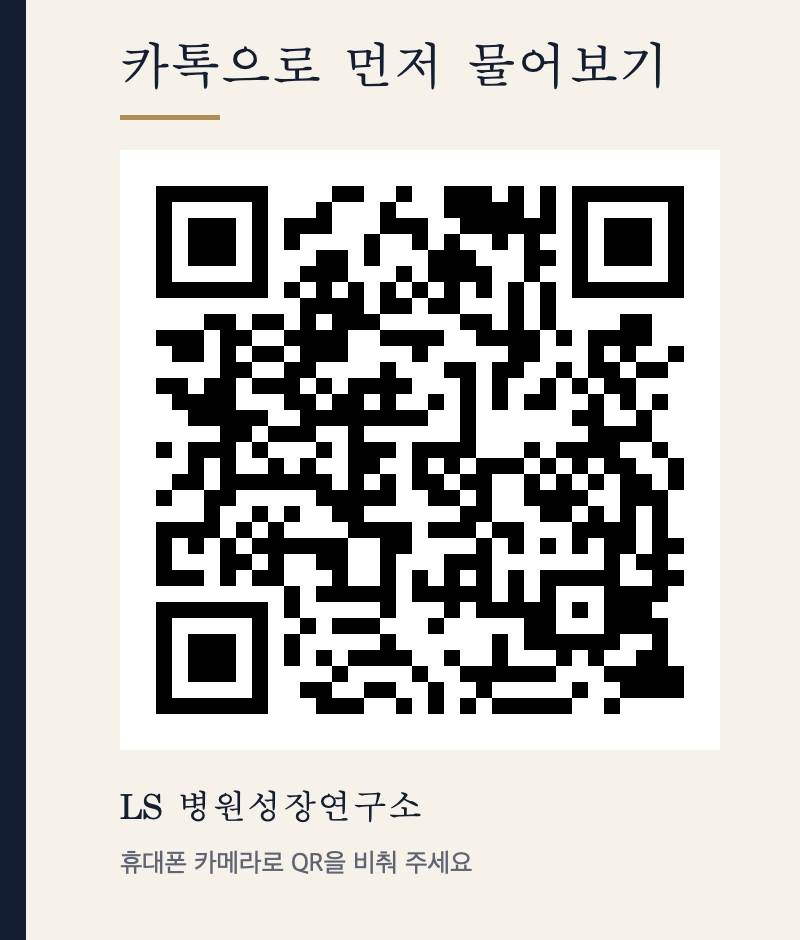
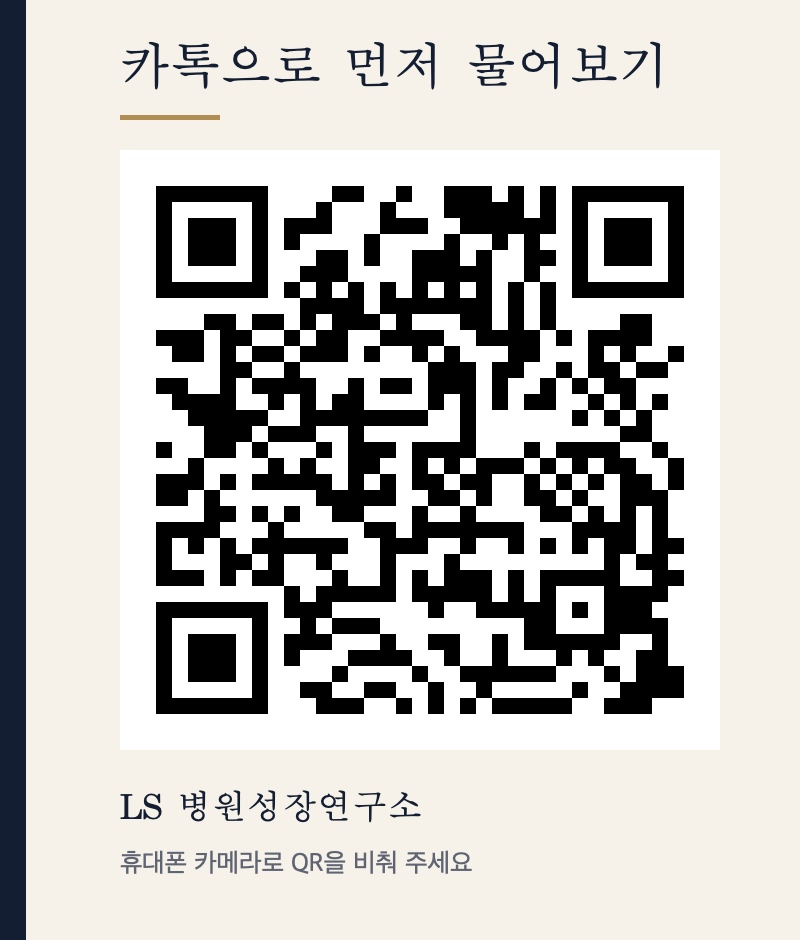
카톡 상담 링크·QR 교체

diff --git a/index.html b/index.html
@@ -356,7 +356,7 @@ footer a{text-decoration:none;border-bottom:1px solid var(--rule)}
       </div>
       <div class="ctas">
         <a class="btn solid" href="https://docs.google.com/forms/d/e/1FAIpQLScgscJzu-_umpK5T391qhe0d7Zhl0t5ld2U17WTYjD9tdr5nw/viewform" rel="noopener">무료 진단 신청</a>
-        <a class="btn line" href="https://m.site.naver.com/2ltfX" rel="noopener">💬 카톡으로 먼저 물어보기</a>
+        <a class="btn line" href="https://m.site.naver.com/2luYY" rel="noopener">💬 카톡으로 먼저 물어보기</a>
         <img class="qr" src="img/kakao-qr.jpg" width="120" height="141" alt="카톡 상담 QR | LS 병원성장연구소" loading="lazy">
       </div>
     </div>
@@ -371,7 +371,7 @@ footer a{text-decoration:none;border-bottom:1px solid var(--rule)}
         <dt>상호</dt><dd>레몬마케팅인사이트</dd>
         <dt>대표자</dt><dd><span class="soon">표기 예정</span></dd>
         <dt>사업자등록번호</dt><dd><span class="soon">등록 후 표기</span></dd>
-        <dt>문의</dt><dd><a href="https://m.site.naver.com/2ltfX" rel="noopener">카톡으로 먼저 물어보기</a></dd>
+        <dt>문의</dt><dd><a href="https://m.site.naver.com/2luYY" rel="noopener">카톡으로 먼저 물어보기</a></dd>
         <dt>블로그</dt><dd><a href="https://blog.naver.com/lsgrowth6000">blog.naver.com/lsgrowth6000</a></dd>
       </dl>
     </div>

diff --git a/columns/01.html b/columns/01.html
@@ -178,7 +178,7 @@
       </div>
       <div class="ctas">
         <a class="btn solid" href="https://docs.google.com/forms/d/e/1FAIpQLScgscJzu-_umpK5T391qhe0d7Zhl0t5ld2U17WTYjD9tdr5nw/viewform" rel="noopener">무료 진단 신청</a>
-        <a class="btn line" href="https://m.site.naver.com/2ltfX" rel="noopener">💬 카톡으로 먼저 물어보기</a>
+        <a class="btn line" href="https://m.site.naver.com/2luYY" rel="noopener">💬 카톡으로 먼저 물어보기</a>
         <img class="qr" src="../img/kakao-qr.jpg" width="120" height="141" alt="카톡 상담 QR | LS 병원성장연구소" loading="lazy">
       </div>
     </div>

diff --git a/columns/02.html b/columns/02.html
@@ -198,7 +198,7 @@
       </div>
       <div class="ctas">
         <a class="btn solid" href="https://docs.google.com/forms/d/e/1FAIpQLScgscJzu-_umpK5T391qhe0d7Zhl0t5ld2U17WTYjD9tdr5nw/viewform" rel="noopener">무료 진단 신청</a>
-        <a class="btn line" href="https://m.site.naver.com/2ltfX" rel="noopener">💬 카톡으로 먼저 물어보기</a>
+        <a class="btn line" href="https://m.site.naver.com/2luYY" rel="noopener">💬 카톡으로 먼저 물어보기</a>
         <img class="qr" src="../img/kakao-qr.jpg" width="120" height="141" alt="카톡 상담 QR | LS 병원성장연구소" loading="lazy">
       </div>
     </div>

diff --git a/columns/03.html b/columns/03.html
@@ -188,7 +188,7 @@
       </div>
       <div class="ctas">
         <a class="btn solid" href="https://docs.google.com/forms/d/e/1FAIpQLScgscJzu-_umpK5T391qhe0d7Zhl0t5ld2U17WTYjD9tdr5nw/viewform" rel="noopener">무료 진단 신청</a>
-        <a class="btn line" href="https://m.site.naver.com/2ltfX" rel="noopener">💬 카톡으로 먼저 물어보기</a>
+        <a class="btn line" href="https://m.site.naver.com/2luYY" rel="noopener">💬 카톡으로 먼저 물어보기</a>
         <img class="qr" src="../img/kakao-qr.jpg" width="120" height="141" alt="카톡 상담 QR | LS 병원성장연구소" loading="lazy">
       </div>
     </div>

diff --git a/columns/04.html b/columns/04.html
@@ -188,7 +188,7 @@
       </div>
       <div class="ctas">
         <a class="btn solid" href="https://docs.google.com/forms/d/e/1FAIpQLScgscJzu-_umpK5T391qhe0d7Zhl0t5ld2U17WTYjD9tdr5nw/viewform" rel="noopener">무료 진단 신청</a>
-        <a class="btn line" href="https://m.site.naver.com/2ltfX" rel="noopener">💬 카톡으로 먼저 물어보기</a>
+        <a class="btn line" href="https://m.site.naver.com/2luYY" rel="noopener">💬 카톡으로 먼저 물어보기</a>
         <img class="qr" src="../img/kakao-qr.jpg" width="120" height="141" alt="카톡 상담 QR | LS 병원성장연구소" loading="lazy">
       </div>
     </div>

diff --git a/columns/index.html b/columns/index.html
@@ -151,7 +151,7 @@
       </div>
       <div class="ctas">
         <a class="btn solid" href="https://docs.google.com/forms/d/e/1FAIpQLScgscJzu-_umpK5T391qhe0d7Zhl0t5ld2U17WTYjD9tdr5nw/viewform" rel="noopener">무료 진단 신청</a>
-        <a class="btn line" href="https://m.site.naver.com/2ltfX" rel="noopener">💬 카톡으로 먼저 물어보기</a>
+        <a class="btn line" href="https://m.site.naver.com/2luYY" rel="noopener">💬 카톡으로 먼저 물어보기</a>
         <img class="qr" src="../img/kakao-qr.jpg" width="120" height="141" alt="카톡 상담 QR | LS 병원성장연구소" loading="lazy">
       </div>
     </div>

diff --git a/notes/index.html b/notes/index.html
@@ -97,7 +97,7 @@
       </div>
       <div class="ctas">
         <a class="btn solid" href="https://docs.google.com/forms/d/e/1FAIpQLScgscJzu-_umpK5T391qhe0d7Zhl0t5ld2U17WTYjD9tdr5nw/viewform" rel="noopener">무료 진단 신청</a>
-        <a class="btn line" href="https://m.site.naver.com/2ltfX" rel="noopener">💬 카톡으로 먼저 물어보기</a>
+        <a class="btn line" href="https://m.site.naver.com/2luYY" rel="noopener">💬 카톡으로 먼저 물어보기</a>
         <img class="qr" src="../img/kakao-qr.jpg" width="120" height="141" alt="카톡 상담 QR | LS 병원성장연구소" loading="lazy">
       </div>
     </div>
